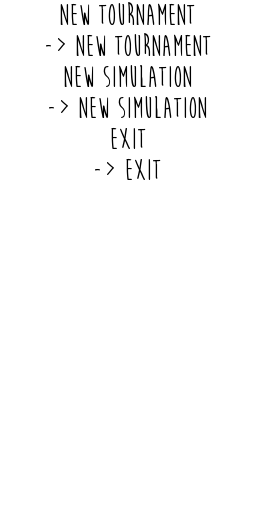
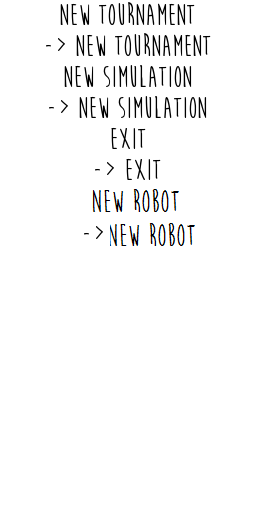
Tried to add a new sprite to the main menu

Changed region(s): [[0.3438, 0.3438, 0.75, 0.5]]

diff --git a/robosport370/src/Views/mainMenuView.java b/robosport370/src/Views/mainMenuView.java
@@ -13,7 +13,8 @@ import Controllers.setupController;
 
 /**
  * A GUI view for the main menu
- * @author Corey
+ * @author Corey 
+ * @author Levi Paradis
  *
  */
 public class mainMenuView extends ScreenAdapter {
@@ -50,6 +51,7 @@ public class mainMenuView extends ScreenAdapter {
     private Texture menuOptionsTexture;
     private Sprite menuOptionsTournament;
     private Sprite menuOptionsSimulation;
+    private Sprite menuOptionsNewRobot;
     private Sprite menuOptionsExit;
     
     // For tracking the active option
@@ -76,11 +78,13 @@ public class mainMenuView extends ScreenAdapter {
         menuOptionsTexture = new Texture("assets/mainMenu/menu_options.png");
         menuOptionsTournament = new Sprite(menuOptionsTexture, menOpSrcX, menOpSrcY*0, menOpWidth, menOpHeight);
         menuOptionsSimulation = new Sprite(menuOptionsTexture, menOpSrcX, menOpSrcY*2, menOpWidth, menOpHeight);
+        menuOptionsNewRobot = new Sprite(menuOptionsTexture, menOpSrcX, menOpSrcY*2, menOpWidth, menOpHeight);
         menuOptionsExit = new Sprite(menuOptionsTexture, menOpSrcX, menOpSrcY*4, menOpWidth, menOpHeight);
         
     	menuOptionsTournament.setPosition(SCREEN_WIDTH*0.5f-menuOptionsTournament.getWidth()/2, SCREEN_HEIGHT*0.45f-30*1f);
     	menuOptionsSimulation.setPosition(SCREEN_WIDTH*0.5f-menuOptionsTournament.getWidth()/2, SCREEN_HEIGHT*0.45f-30*2f);
-    	menuOptionsExit.setPosition(SCREEN_WIDTH*0.5f-menuOptionsTournament.getWidth()/2, SCREEN_HEIGHT*0.45f-30*3f);
+    	menuOptionsNewRobot.setPosition(SCREEN_WIDTH*.5f-menuOptionsTournament.getWidth()/2, SCREEN_HEIGHT*0.45f-30*3f);
+    	menuOptionsExit.setPosition(SCREEN_WIDTH*0.5f-menuOptionsTournament.getWidth()/2, SCREEN_HEIGHT*0.45f-30*4f);
         
     	// Add in the order for the associated constant variables
         menu = new spriteMenuHandler(menuOptionsTournament);
@@ -111,6 +115,7 @@ public class mainMenuView extends ScreenAdapter {
         // Draw the options
     	menuOptionsTournament.draw(batch);
     	menuOptionsSimulation.draw(batch);
+    	menuOptionsNewRobot.draw(batch);
     	menuOptionsExit.draw(batch);
         
         batch.end();
